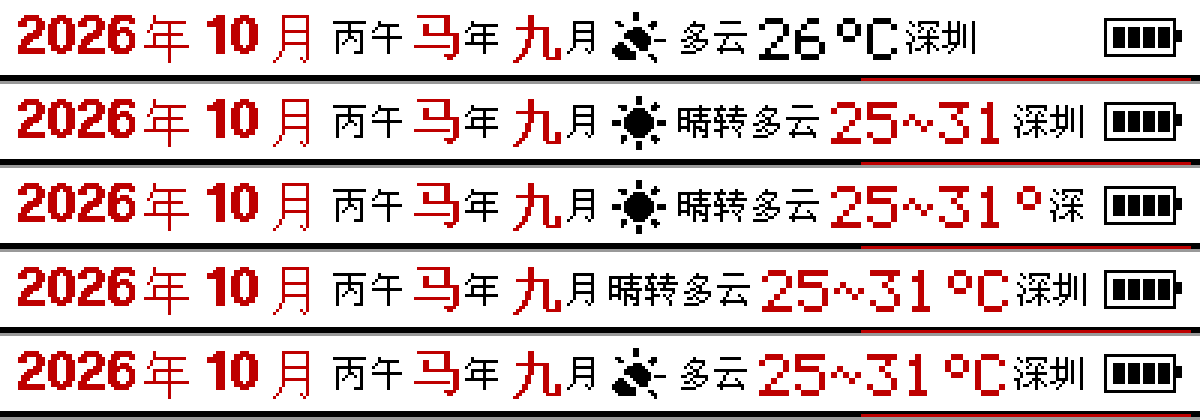
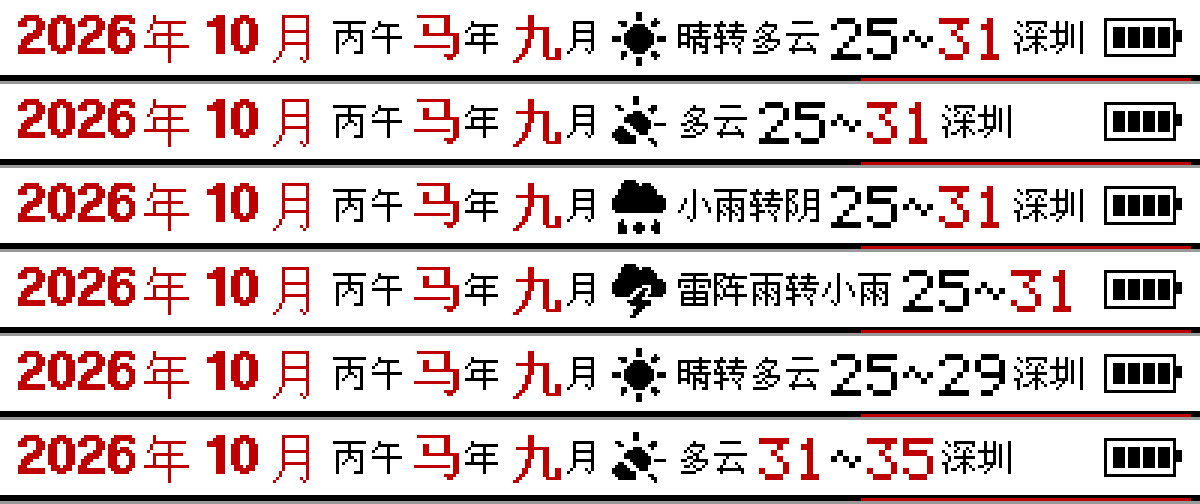
zk42v: build 102 定稿 —— 版式走 B（不写 ℃）+ 温度只红超过 30 的数
用户 2026-10-16 拍板两件：
① 版式走 B：图标 + 晴转多云 + 25~31 + 深圳（不写单位）⇒ 预览期那两个档位宏
   ZK_HDR_RANGE_STYLE / ZK_HDR_WX_ICON 从固件里删掉，只剩这一种行为（纯净单一）。
② 温度"只红超过 30 的数"：不是整段一个颜色，改成逐段画 —— 最低 / 波浪号 / 最高
   各画一次，25~31 = "25~"黑 + "31"红，25~29 全黑，31~35 两个都红。

自测 test_gui 新增 5h（用红像素数当判据）：25~31 红 96 点（只在"31"上）、
25~29 红 0 点、31~35 红 220 点（两个都红）。

镜像定稿：bin_size 0x24118(147736) / check_sum 0x00DF1119 / SHA 255fb497…
13 套固件自测 + 2 套基站自测全绿；预览图三张（表头六种情形 / 整页 / 最坏情况）已留档。

diff --git a/zk42v-epd/firmware/zk42v-epd-app/Src/img/zkgui.c b/zk42v-epd/firmware/zk42v-epd-app/Src/img/zkgui.c
@@ -1061,22 +1061,14 @@ static int draw_header_temp(uint8_t *buf, int x, const zkgui_info_t *info)
 /* ---------------------------------------------------------- build 102：当天温度区间
  *
  * 2026-10-16 用户："如果天气是一整天的，比如晴转多云，温度是当天的区间 24-31 度，
- * 这样就只需要 0 点刷新" —— 于是屏上从"某一刻的 26℃"改成"当天的 25~31℃"。
+ * 这样就只需要 0 点刷新" —— 于是屏上从"某一刻的 26℃"改成"当天的 25~31"。
  *
- * 版式（表头 400px 就那么多地方，左边到"深圳"只剩 ~140px）：
- *   ZK_HDR_RANGE_STYLE = 0 → "25~31"      （最省地方，能同时保住图标和城市名）
- *                        1 → "25~31°"
- *                        2 → "25~31°C"    （最完整，代价是那格要塞得下）
- *   ZK_HDR_WX_ICON = 0    → 不画天气图标（把 23px 让给文字，预警图标照画）
- * 这两种是**预览期**的档位（tools/gui_preview.py 用 ZK_CC_FLAGS 传 -D 覆盖，
- * 见 backlog 第 23 节的候选图），用户挑完就把宏删掉、只留选中那一种。
+ * 版式（表头 400px 就那么多地方，农历月之后到"深圳"只剩 ~140px）：**定稿的就是这一种**。
+ * 当时出过 5 张候选图（见 backlog 第 23 节），用户 2026-10-16 拍了这个：
+ *   「图标 + 晴转多云 + 25~31 + 深圳」= **不写单位**（写 ℃ 就得在"图标/城市名/单位"
+ *   里三选二：写 ℃ 时城市名要么被挤掉、要么整块让位）。所以预览期那两个档位宏
+ *   （ZK_HDR_RANGE_STYLE / ZK_HDR_WX_ICON）已经删掉，固件只有这一种行为。
  */
-#ifndef ZK_HDR_RANGE_STYLE
-#define ZK_HDR_RANGE_STYLE 0
-#endif
-#ifndef ZK_HDR_WX_ICON
-#define ZK_HDR_WX_ICON 1
-#endif
 
 /* 整度 -> "25" / "-3"（够表头用；两位数的负温在深圳也不会出现） */
 static int fmt_deg(char *s, int t)
@@ -1097,27 +1089,27 @@ static int fmt_deg(char *s, int t)
     return k;
 }
 
-/* 画"当天的温度区间"（"25~31" / "25~31°C"，看上面那个档位宏）。 */
+/* 画"当天的温度区间"（"25~31"）。
+
+   2026-10-16 用户："只红超过 30 的数" —— 所以**不能整串一个颜色**，得逐段画：
+        【最低】超过 30 才红 + 波浪号（黑）+ 【最高】超过 30 才红
+   于是 25~31 读起来是「25~」黑、「31」红；31~35 那种两个都红；-3~5 全黑。
+   （单值那条（draw_header_temp）本来就是"整个数 > 30 才红"，跟这条同一个规矩。） */
 static int draw_header_temp_range(uint8_t *buf, int x, const zkgui_info_t *info)
 {
-    char s[16];
-    int  k = 0;
-    int  color = ((int)info->temp_max_c > 30) ? C_RED : C_BLACK;   /* 跟单值同一规矩 */
+    char lo[8];
+    char hi[8];
 
-    k += fmt_deg(s + k, (int)info->temp_min_c);
-    s[k++] = '~';
-    k += fmt_deg(s + k, (int)info->temp_max_c);
-#if ZK_HDR_RANGE_STYLE == 1
-    s[k++] = '\xB0';
-#elif ZK_HDR_RANGE_STYLE == 2
-    s[k++] = '\xB0';
-    s[k++] = 'C';
-#endif
-    s[k] = 0;
+    fmt_deg(lo, (int)info->temp_min_c);
+    fmt_deg(hi, (int)info->temp_max_c);
 
     x += 3;                                  /* 跟天气文字拉开 3px */
-    draw_text5(buf, x, CAL_HDR_TEMP_Y, s, CAL_HDR_TEMP_SCALE, color);
-    return x + text5_width(s, CAL_HDR_TEMP_SCALE);
+    x = draw_text5(buf, x, CAL_HDR_TEMP_Y, lo, CAL_HDR_TEMP_SCALE,
+                   ((int)info->temp_min_c > 30) ? C_RED : C_BLACK);
+    x = draw_text5(buf, x, CAL_HDR_TEMP_Y, "~", CAL_HDR_TEMP_SCALE, C_BLACK);
+    x = draw_text5(buf, x, CAL_HDR_TEMP_Y, hi, CAL_HDR_TEMP_SCALE,
+                   ((int)info->temp_max_c > 30) ? C_RED : C_BLACK);
+    return x - CAL_HDR_TEMP_SCALE;           /* 末字的 1px 间隔不算进去（跟以前同一口径） */
 }
 
 /* build 61：温度后面跟着写"经纬度所在地的城市名"（用户提的）。
@@ -1286,12 +1278,6 @@ static void draw_header(uint8_t *buf, int year, int mon, int day,
             ic       = zk_alert_icon((int)info->alert_code);
             ic_color = ((int)info->alert_level >= 3) ? C_RED : C_BLACK;
         }
-#if !ZK_HDR_WX_ICON
-        else
-        {
-            ic = 0;              /* 预览档位：只砍**天气**图标，预警图标照画 */
-        }
-#endif
 
         if (ic != 0)
         {

diff --git a/zk42v-epd/firmware/tools/test_gui.py b/zk42v-epd/firmware/tools/test_gui.py
@@ -388,6 +388,25 @@ def main():
               'case 0x74:' in svc and 'info.temp_min_c = s_temp_min_c;' in svc and
               'info.wx_code2 = s_wx_code2;' in svc)
 
+        # 5h) build 102 定稿（用户 2026-10-16："只红超过 30 的数"）：区间温度**逐段上色**，
+        #     不是整段一个颜色 —— 25~31 = "25~" 黑 + "31" 红；25~29 = 全黑；
+        #     31~35 = 两个都红。判据取 250..367 这段的红像素（表头左边那些红字
+        #     —— 年月/生肖/农历月 —— 都在 250 左边，天然不会被数进去）。
+        def red_in(a, x0=250, x1=367):
+            return sum(1 for y in range(0, 26) for x in range(x0, x1)
+                       if a[y][x * 3:x * 3 + 3] == bytes(RED))
+
+        rows_2529, _ = render(1, TS, 0, 3970, 264, 1, 26, '深圳', '', '', 0, '', 0,
+                              2, 25, 29)
+        rows_3135, _ = render(1, TS, 0, 3970, 264, 1, 26, '深圳', '', '', 0, '', 0,
+                              2, 31, 35)
+        r_2531 = red_in(rows_zhuan)          # 5g 里那版：晴转多云 25~31
+        check('5h: 25~31 只把「31」画红（红 %d 点，不是整段红）' % r_2531,
+              0 < r_2531 < 150)
+        check('5h: 25~29（最高没到 30）一个红点都没有', red_in(rows_2529) == 0)
+        check('5h: 31~35 两个数都超过 30 ⇒ 都红（红 %d > %d）' % (red_in(rows_3135), r_2531),
+              red_in(rows_3135) > r_2531 + 30)
+
         # 6) 换一天，图不一样
         check('6: 换一天画出来的图不一样',
               G.render(exe, 1, TS + 3 * DAY) != cal_buf)

diff --git a/zk42v-epd/firmware/docs/feature-backlog.md b/zk42v-epd/firmware/docs/feature-backlog.md
@@ -1927,7 +1927,7 @@ cd outputs/ble-base
 | 候选 | 表头内容 | 最右墨点 | 结论 |
 |---|---|---|---|
 | A（基准） | 图标 多云 26°C 深圳 | 324 | 现状 |
-| **B（默认）** | 图标 晴转多云 25~31 深圳 | 360 | ✅ 全塞得下，温度不写单位 |
+| **B（2026-10-16 定稿）** | 图标 晴转多云 25~31 深圳 | 360 | ✅ 全塞得下，温度不写单位 |
 | C | 图标 晴转多云 25~31° 深圳 | — | ❌ 城市名被挤成"深" |
 | D | 无图标 晴转多云 25~31°C 深圳 | — | ⚠ 要写 ℃ 就得牺牲天气图标 |
 | E（同名天） | 图标 多云 25~31°C 深圳 | 336 | ✅ "多云"那种天能连 ℃ 一起塞下 |
@@ -1935,14 +1935,24 @@ cd outputs/ble-base
 最坏情况（"雷阵雨转小雨 25~31"，6 个小字）：城市名整块让位（不画），
 其余候选都留得住 —— 想要城市名就只能在"长天气名"时压缩单位，取舍写在这一节的表里。
 
+**用户 2026-10-16 拍板**：① 版式走 **B**（那两句"要不要 ℃"的追问就此关掉，
+预览期那两个档位宏 `ZK_HDR_RANGE_STYLE` / `ZK_HDR_WX_ICON` **已从固件里删掉**，
+只剩这一种行为）；② 温度**"只红超过 30 的数"** —— 不是整段一个颜色：
+`25~31` 读作"25~"黑 + "31"红，`25~29` 全黑，`31~35` 两个都红。
+所以那个画法改成**逐段上色**（最低 / 波浪号 / 最高 各画一次）。
+留档图：`docs/preview/preview-daily-wx-header.png`（六种情形一张图）、
+`preview-daily-wx-calendar.png`（整页）、`preview-daily-wx-worstcase.png`。
+
 ### 镜像
 
-build 102：`bin_size 0x24118 (147736)` / `check_sum 0x00DF04E0` /
-SHA-256 `1211528f…`（比 build 101 多 512 字节：一个汉字字模 22 字节 + 5x7 的「~」
+build 102：`bin_size 0x24118 (147736)` / `check_sum 0x00DF1119` /
+SHA-256 `255fb497…`（比 build 101 多 512 字节：一个汉字字模 22 字节 + 5x7 的「~」
 7 字节 + 判"转"、画区间、以及"单值实况来了就清掉当天区间"那几处代码）。13 套自测全绿，
-其中 **test_gui 新增 5g 一组**：
-① 两码不同 ⇒ 比同名天多出「转 + 一个字」；② 给了区间 ⇒ 跟单值那版画出来的不一样；
+其中 **test_gui 新增 5g / 5h 两组**：
+5g：① 两码不同 ⇒ 比同名天多出「转 + 一个字」；② 给了区间 ⇒ 跟单值那版画出来的不一样；
 ③ 零下（-3~5）也不崩；④ 源码级判据：`0x74` 真的把区间存进 info。
+5h（"只红超过 30 的数"）：⑤ 25~31 的红像素只在"31"那两个字上（96 点，不是整段）；
+⑥ 25~29 红像素 **0**；⑦ 31~35 两个都红（220 > 96）。
 ⚠ build 101 那次**忘了改 `ZK_BUILD_ID`**（还是 100），从这一版起按 102 记。
 
 ### 基站侧

diff --git a/zk42v-epd/docs/HANDOFF.md b/zk42v-epd/docs/HANDOFF.md
@@ -21,16 +21,18 @@
 | 候选 | 表头内容 | 最右墨点 |
 |---|---|---|
 | A（基准） | 图标 多云 26°C 深圳 | 324 |
-| **B（默认）** | 图标 晴转多云 25~31 深圳 | 360 |
+| **B（2026-10-16 定稿）** | 图标 晴转多云 25~31 深圳 | 360 |
 | C | 图标 晴转多云 25~31° 深圳 | 城市名被挤成"深" |
 | D | 无图标 晴转多云 25~31°C 深圳 | 要写 ℃ 就得牺牲图标 |
 | E（同名天） | 图标 多云 25~31°C 深圳 | 336（"多云"那种天能连 ℃ 一起塞下） |
 
-最坏情况（"雷阵雨转小雨 25~31"，6 个小字）：城市名整块让位。**默认走 B**；
-用户要 ℃ 的话按上表在"图标 / 城市名 / 单位"里三选二（预览图已发给用户）。
+最坏情况（"雷阵雨转小雨 25~31"，6 个小字）：城市名整块让位（不画）。
+**用户 2026-10-16 定了**：① 版式走 **B**（不写 ℃；预览期那两个档位宏已从固件删掉）；
+② 温度**只红超过 30 的数** —— `25~31` = "25~"黑 + "31"红，`25~29` 全黑，
+`31~35` 两个都红（画法改成逐段上色）。
 
-镜像：build 102，`bin_size 0x24118(147736)` / `check_sum 0x00DF04E0` / SHA `1211528f…`，
-13 套自测全绿（test_gui 新增 5g 一组）。⚠ build 101 忘了改 `ZK_BUILD_ID`（还是 100），
+镜像：build 102，`bin_size 0x24118(147736)` / `check_sum 0x00DF1119` / SHA `255fb497…`，
+13 套自测全绿（test_gui 新增 5g/5h 两组）。⚠ build 101 忘了改 `ZK_BUILD_ID`（还是 100），
 从这一版起按 102 记。
 
 **基站侧（也已改完）**：
